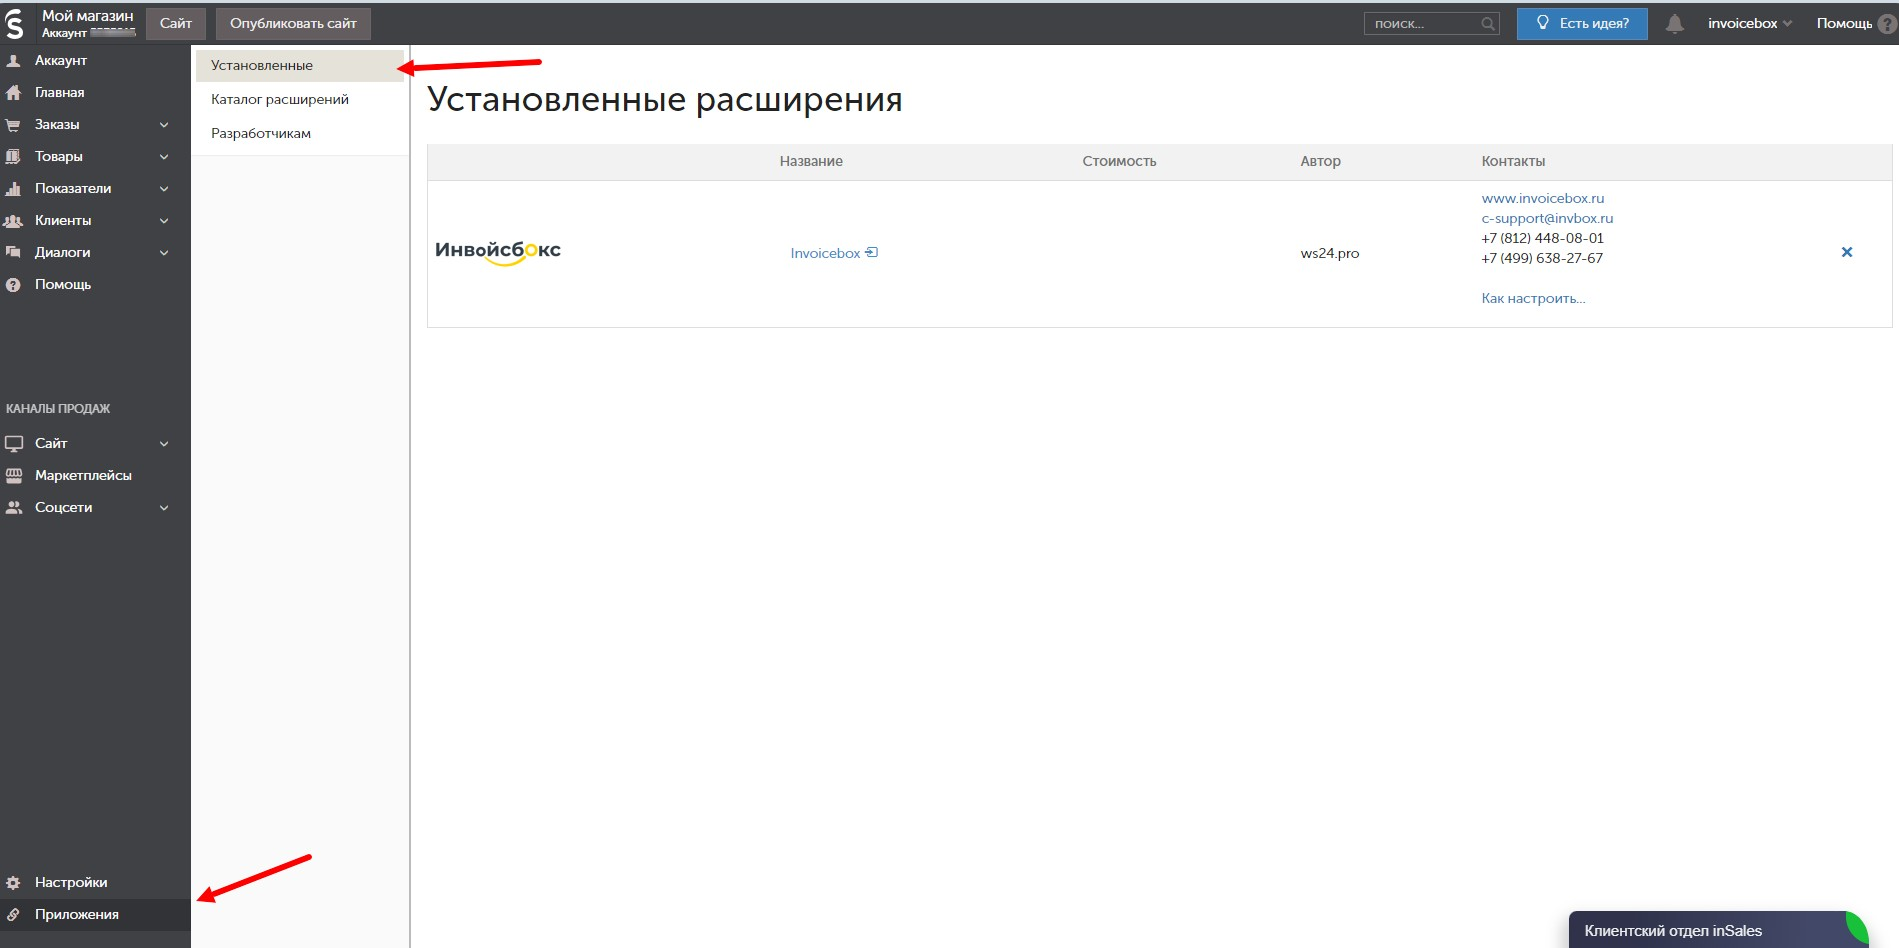
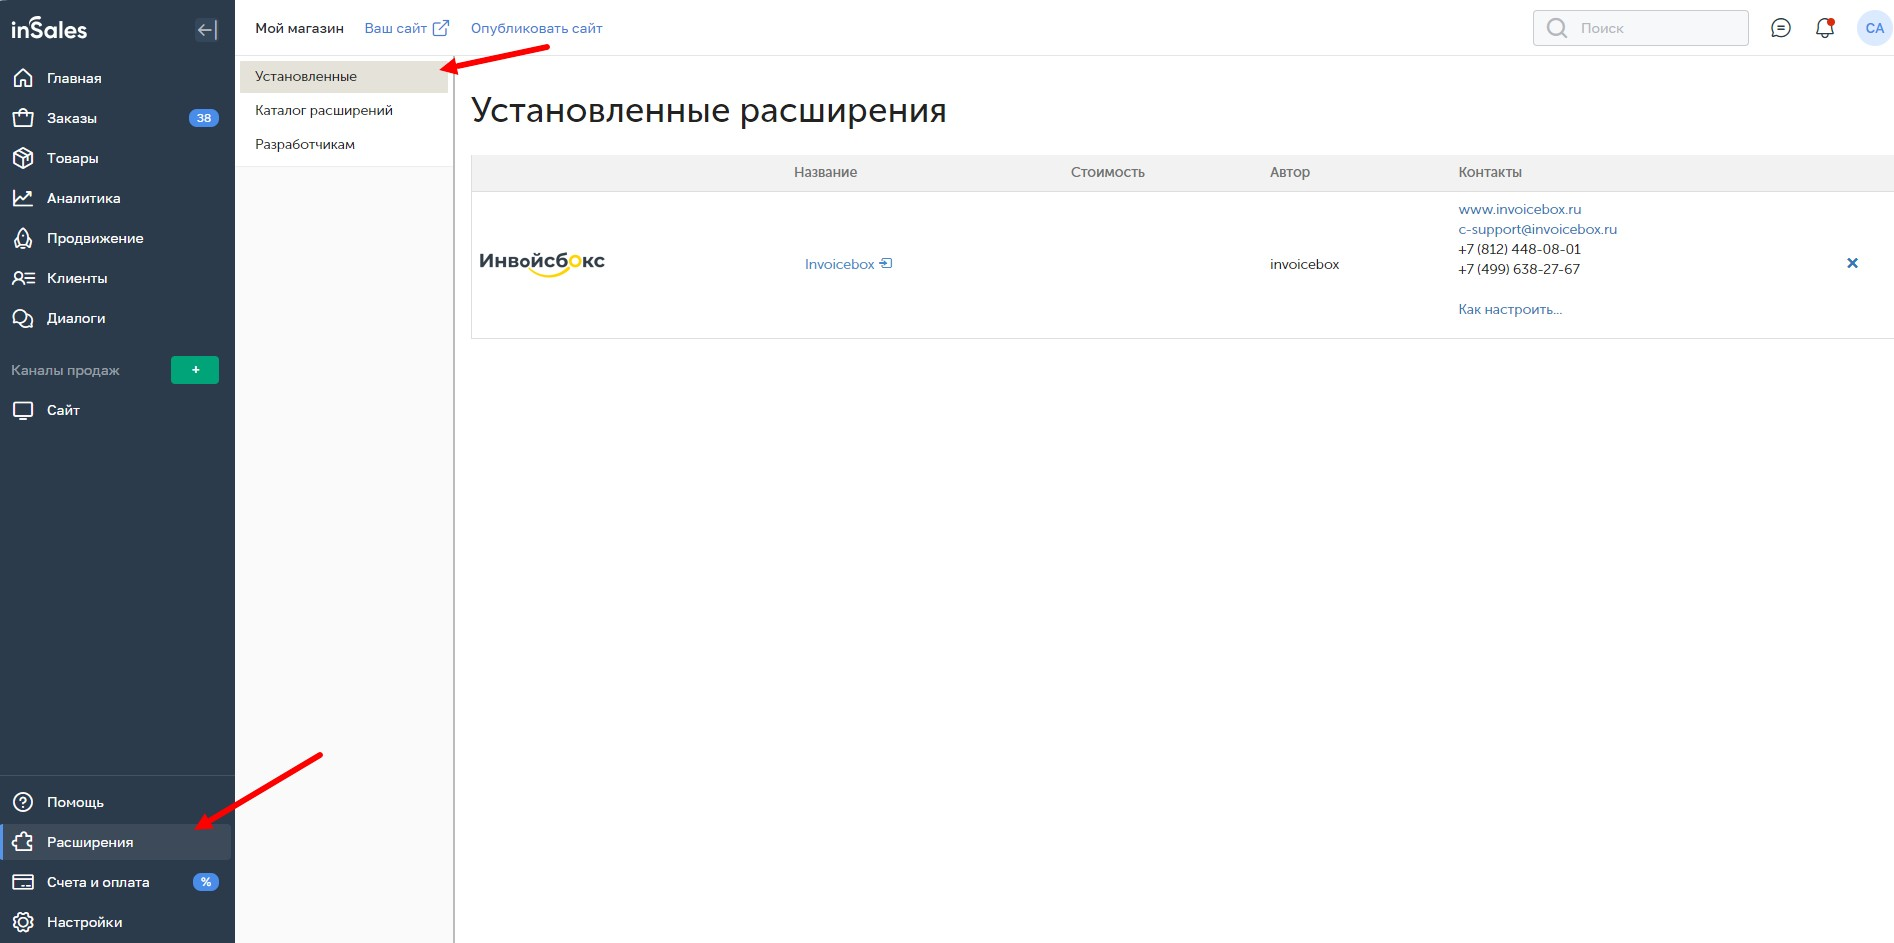
Изменения статьи Insales

diff --git a/docs/merchant/cms/insales.md b/docs/merchant/cms/insales.md
@@ -18,11 +18,12 @@ date: 2023-11-14 00:00:00 +0300
 
 ![InSales](/assets/images/cms/insales/1.jpg){: .img }
 
-2. После добавления, расширение будет доступно в личном кабинете в разделе "Приложения" 
+2. После добавления, расширение будет доступно в личном кабинете в разделе "Расширения" 
 
 ![InSales](/assets/images/cms/insales/2.jpg){: .img }
 
 3. Нужно ввести данные для интеграции, которые будут находиться в [личном кабинете](http://business.invoicebox.ru) после регистрации и заключения договора
+Потребуется: Идентификатор магазина, Авторизационный токен (API токен в ЛК) и Ключ для проверки подписи запроса (API ключ в ЛК)
 
 ![InSales](/assets/images/cms/insales/3.jpg){: .img }
 ![InSales](/assets/images/cms/insales/4.jpg){: .img }
@@ -46,19 +47,15 @@ date: 2023-11-14 00:00:00 +0300
 
 ![InSales](/assets/images/cms/insales/6.jpg){: .img }
 
-5. В настройках вы можете поменять название вида оплаты, добавить информацию для пользователя и установить наценку при необходимости.  
+5. В настройках нужно привязать способ оплаты к способам доставки, а также выставить тип плательщиков: физ.лицо и/или юр.лицо. Если ни один способ доставки не будет привязан, то вид оплаты не появится на странице оформления заказа. По желанию сменить название и установить наценку  
 
 ![InSales](/assets/images/cms/insales/7.jpg){: .img }
 
-6. Далее нужно выбрать способ доставки, которые будут привязаны к данному виду оплаты, если ни один способ доставки не будет привязан,
-то вид оплаты не появится на странице оформления заказа. При привязке способа доставки появится вид оплаты Инвойсбокс:
-
+6. Для включения возможности оплаты юр.лицам передите в "настройки" -> "оформление заказа" -> "перейти к редактированию полей клиента" и включить пункт "Организация". Обязательным полем является ИНН
+![InSales](/assets/images/cms/insales/102.jpg){: .img }
 ![InSales](/assets/images/cms/insales/8.jpg){: .img }
 
-Также есть возможность управлять автоматической переадресацией на страницу платежного шлюза после клика на кнопку “оформить заказ”,
-по умолчанию опция активна. Если ее отключить пользователь попадет на страницу созданного заказа, и с нее  переходит на страницу оплаты.
 
-![InSales](/assets/images/cms/insales/9.jpg){: .img }
 
 Остальные настройки будут заполнены автоматически и не требуют изменений.
 
@@ -68,4 +65,3 @@ date: 2023-11-14 00:00:00 +0300
 
 В случае возникновения ошибки при оплате, покупатель будет перенаправлен в магазин на страницу оформления заказа , где у него будет возможность заново перейти к оплате
 
-![InSales](/assets/images/cms/insales/11.jpg){: .img }
